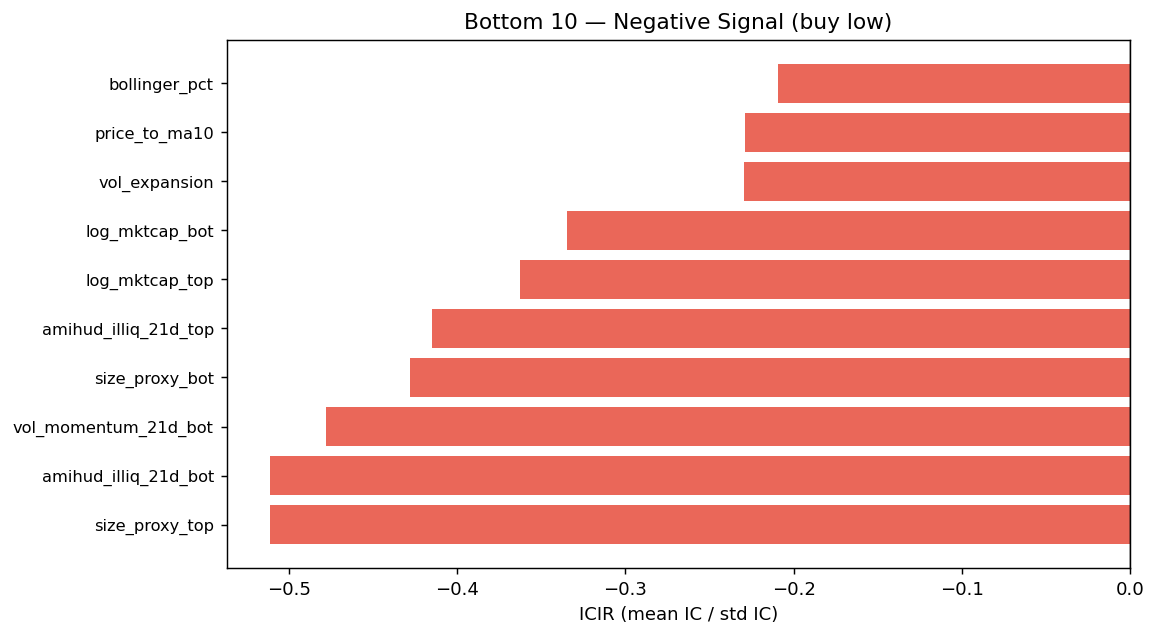
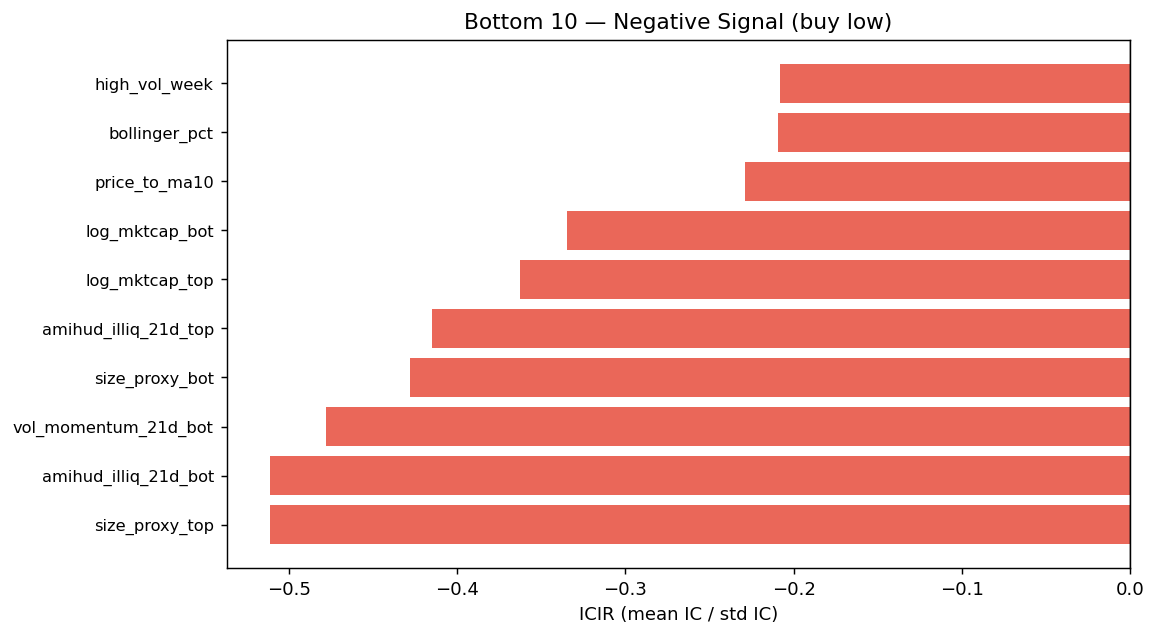
Factor Analysis

diff --git a/utils_factors.py b/utils_factors.py
@@ -1296,141 +1296,231 @@ def add_mined_factors(prices: pd.DataFrame) -> pd.DataFrame:
 # CAT 17 — TIME-SIGNAL FACTORS (WHEN to apply a signal)
 # ══════════════════════════════════════════════════════════════════════════════
 
-def add_time_signal_v2(prices: pd.DataFrame) -> pd.DataFrame:
+def add_proper_time_signals(prices: pd.DataFrame) -> pd.DataFrame:
     """
-    Cat 17: Regime-conditional (time-signal) factors computed at stock level.
-    These answer "WHEN is this stock's signal reliable?" — not "what is the signal?"
+    Cat 17: Proper per-stock time-series signals (Moskowitz et al. 2012 style).
 
-    Unlike macro regime factors (Cat 10, same for all stocks), these vary
-    cross-sectionally because they capture each stock's OWN regime state.
+    KEY DISTINCTION from old Cat 17 (replaced):
+      OLD: Cross-sectionally ranked stock-level indicators (ADX, autocorr, etc.)
+           These still ranked Stock A vs Stock B → they flipped OOS.
+      NEW: Each signal uses ONLY the stock's OWN history → binary or directional
+           per stock. No cross-sectional ranking at this stage. The signal says
+           "is THIS stock in a favourable state?" independently of all other stocks.
 
-    Key distinction from Cat 11 (first time-signal batch):
-      Cat 11 captures signal QUALITY metrics (IR, R², consistency).
-      Cat 17 captures regime TIMING — when is the stock in a state where
-      a given signal class is known to work or fail.
+    Categories implemented:
 
-    NEW COLUMNS:
-      adx_14             Average Directional Index (14-day). ADX > 25 = strong trend.
-                         Momentum factors work best when ADX is high; reversal when low.
-      adx_regime         1 if adx_14 > 25 (trending), 0 otherwise. Binary timing flag.
-      roll_spread        Roll (1984) liquidity proxy: 2 * sqrt(max(-autocov, 0)).
-                         Implicit bid-ask spread — higher = illiquid = larger reversal.
-      autocorr_ret_21d   1-lag autocorrelation of daily returns over 21d.
-                         Positive = momentum state; negative = mean-reversion state.
-      vol_expansion      1 if vol_21d > vol_126d * 1.20 = vol expanding = risk-off.
-                         Risk factors predictive in this regime; momentum often fails.
-      trend_strength     Slope of OLS regression of close on time / vol — normalised
-                         price trend strength. Directional + magnitude signal.
-      cum_vol_ratio      Cumulative upvol / cumulative downvol over 63d.
-                         > 1 = bullish microstructure; < 1 = distribution pattern.
-      high_low_range_21d Daily (high - low) / close, mean over 21 days.
-                         Proxy for intraday uncertainty / ambiguity regime.
+    A. Time-Series Momentum (Moskowitz, Ooi & Pedersen 2012)
+       Sign of own 12m/6m return → binary long/short signal per stock.
+       tsmom_sign_12m, tsmom_sign_6m, tsmom_magnitude
+
+    B. Moving Average Regime (Han, Kim & Mukherjee 2013; Grinblatt & Han 2005)
+       Is THIS stock above/below ITS OWN MA? Not ranked vs peers.
+       above_ma_200, above_ma_50, ma_200_slope, price_pct_above_ma200
+
+    C. 52-Week High Timing (George & Hwang 2004)
+       Anchoring effect: near 52w high → momentum continues.
+       new_52w_high, new_52w_low, ret_since_52w_low
+
+    D. Volume Confirmation (Gervais, Kaniel & Mingelgrin 2001)
+       Is THIS stock's volume above ITS OWN trailing average?
+       vol_above_avg, volume_trend, high_vol_week
+
+    E. Earnings Announcement Drift Proxy (Bernard & Thomas 1989 PEAD)
+       Overnight gap on highest-volume day in past 63 days as earnings proxy.
+       earnings_gap, post_earnings_drift
+
+    F. Serial Correlation Timing (Lo & MacKinlay 1988; Jegadeesh 1990)
+       Is THIS stock's own return autocorrelation positive (momentum) or negative
+       (mean-reversion)? Binary sign, not cross-sectional rank.
+       serial_corr_sign, hurst_63d
     """
     prices = prices.copy()
+
+    has_high_low = "high" in prices.columns and "low" in prices.columns
+    has_volume   = "volume" in prices.columns
 
     for tk, grp in prices.groupby("ticker", sort=False):
         idx   = grp.index
         close = grp["close"].values
         ret_d = grp["ret_d"].values if "ret_d" in grp.columns else np.full(len(grp), np.nan)
         n     = len(grp)
+        ret_s = pd.Series(ret_d, index=idx)
+        cls_s = pd.Series(close, index=idx)
 
-        # ── ADX (Average Directional Index, 14-day) ──────────────────────────
-        # Using simplified ADX from high/low if available, else from close only
-        if "high" in grp.columns and "low" in grp.columns:
-            high = grp["high"].values
-            low  = grp["low"].values
-            # True Range
-            tr = np.maximum(high[1:] - low[1:],
-                 np.maximum(np.abs(high[1:] - close[:-1]),
-                            np.abs(low[1:]  - close[:-1])))
-            tr = np.concatenate([[np.nan], tr])
-            # Directional movement
-            dm_pos = np.where((high[1:] - high[:-1]) > (low[:-1] - low[1:]),
-                              np.maximum(high[1:] - high[:-1], 0), 0)
-            dm_neg = np.where((low[:-1] - low[1:]) > (high[1:] - high[:-1]),
-                              np.maximum(low[:-1] - low[1:], 0), 0)
-            dm_pos = np.concatenate([[np.nan], dm_pos])
-            dm_neg = np.concatenate([[np.nan], dm_neg])
-            period = 14
-            atr14  = pd.Series(tr).ewm(span=period, min_periods=period//2).mean().values
-            pdi    = 100 * pd.Series(dm_pos).ewm(span=period, min_periods=period//2).mean().values / np.where(atr14 > 1e-10, atr14, np.nan)
-            mdi    = 100 * pd.Series(dm_neg).ewm(span=period, min_periods=period//2).mean().values / np.where(atr14 > 1e-10, atr14, np.nan)
-            dx     = 100 * np.abs(pdi - mdi) / np.where((pdi + mdi) > 1e-10, pdi + mdi, np.nan)
-            adx    = pd.Series(dx).ewm(span=period, min_periods=period//2).mean().values
-        else:
-            # Fallback: ADX proxy from close-only (trend R² scaled)
-            close_s = pd.Series(close)
-            adx = close_s.rolling(14, min_periods=7).apply(
-                lambda x: 100 * np.corrcoef(np.arange(len(x)), x)[0, 1] ** 2
-                if len(x) > 3 else np.nan, raw=True
-            ).values
+        # ── CAT A: Time-Series Momentum ───────────────────────────────────────
+        # Moskowitz, Ooi & Pedersen (2012): sign of own past return.
+        # BINARY {+1, -1} per stock — not ranked cross-sectionally.
+        ret_252 = cls_s.pct_change(252)   # ~12-month return (1 year of trading days)
+        ret_126 = cls_s.pct_change(126)   # ~6-month return
 
-        prices.loc[idx, "adx_14"]     = adx
-        prices.loc[idx, "adx_regime"] = (adx > 25).astype(np.float32)
+        # tsmom_sign: +1 if positive trend, -1 if negative, 0 if NaN
+        prices.loc[idx, "tsmom_sign_12m"] = np.sign(ret_252.values).astype(np.float32)
+        prices.loc[idx, "tsmom_sign_6m"]  = np.sign(ret_126.values).astype(np.float32)
+        # Magnitude: how strong is the own trend (absolute return)
+        prices.loc[idx, "tsmom_magnitude"] = np.abs(ret_252.values)
 
-        # ── Roll (1984) implicit spread ───────────────────────────────────────
-        # Spread = 2 * sqrt(max(-Cov(r_t, r_{t-1}), 0))
-        ret_s   = pd.Series(ret_d)
-        ret_lag = ret_s.shift(1)
-        cov_roll = (
-            (ret_s - ret_s.rolling(21, min_periods=10).mean()) *
-            (ret_lag - ret_lag.rolling(21, min_periods=10).mean())
-        ).rolling(21, min_periods=10).mean()
-        roll_sp  = 2 * np.sqrt(np.maximum(-cov_roll.values, 0))
-        prices.loc[idx, "roll_spread"] = roll_sp
+        # ── CAT B: Moving Average Regime ──────────────────────────────────────
+        # Han, Kim & Mukherjee (2013): above MA = uptrend for THIS stock.
+        # Binary flag — not ranked vs peers.
+        ma200 = cls_s.rolling(200, min_periods=100).mean()
+        ma50  = cls_s.rolling(50,  min_periods=25).mean()
 
-        # ── Autocorrelation of returns (21d) ─────────────────────────────────
-        prices.loc[idx, "autocorr_ret_21d"] = (
-            ret_s.rolling(21, min_periods=10)
-                 .apply(lambda x: x.autocorr(lag=1) if len(x) > 5 else np.nan, raw=False)
-                 .values
-        )
+        prices.loc[idx, "above_ma_200"] = (cls_s > ma200).astype(np.float32).values
+        prices.loc[idx, "above_ma_50"]  = (cls_s > ma50).astype(np.float32).values
 
-        # ── Vol expansion signal ──────────────────────────────────────────────
-        vol_21  = ret_s.rolling(21,  min_periods=10).std().values
-        vol_126 = ret_s.rolling(126, min_periods=63).std().values
-        prices.loc[idx, "vol_expansion"] = (
-            (vol_21 > vol_126 * 1.20).astype(np.float32)
-        )
+        # Distance from own 200-day MA (normalised)
+        with np.errstate(divide="ignore", invalid="ignore"):
+            pct_above = ((cls_s - ma200) / ma200).values
+        prices.loc[idx, "price_pct_above_ma200"] = pct_above
 
-        # ── Normalised trend strength ─────────────────────────────────────────
-        # OLS slope of log(close) on time / std(log(close)), rolling 63d
-        log_close = np.log(np.where(close > 0, close, np.nan))
-        def _trend_strength(x):
+        # Slope of own 200-day MA over past 63 days (is the MA itself trending?)
+        def _ma_slope(x):
+            if len(x) < 10 or np.all(np.isnan(x)):
+                return np.nan
             x = x[~np.isnan(x)]
-            if len(x) < 10:
+            if len(x) < 5:
                 return np.nan
             t = np.arange(len(x))
             slope = np.polyfit(t, x, 1)[0]
-            return slope / (np.std(x) + 1e-10)
-        prices.loc[idx, "trend_strength"] = (
-            pd.Series(log_close)
-              .rolling(63, min_periods=21)
-              .apply(_trend_strength, raw=True)
-              .values
+            return slope / (np.mean(np.abs(x)) + 1e-10)   # normalised
+
+        prices.loc[idx, "ma_200_slope"] = (
+            ma200.rolling(63, min_periods=21)
+                 .apply(_ma_slope, raw=True)
+                 .values
         )
 
-        # ── Cumulative up/down vol ratio (63d) ───────────────────────────────
-        upvol_63 = ret_s.where(ret_s > 0, 0).rolling(63, min_periods=21).std().values
-        dnvol_63 = ret_s.where(ret_s < 0, 0).rolling(63, min_periods=21).std().values
-        with np.errstate(divide="ignore", invalid="ignore"):
-            cum_vr = np.where(dnvol_63 > 1e-10, upvol_63 / dnvol_63, np.nan)
-        prices.loc[idx, "cum_vol_ratio"] = cum_vr
+        # ── CAT C: 52-Week High Timing ────────────────────────────────────────
+        # George & Hwang (2004): nearness to own 52w high signals anchoring.
+        high_252 = cls_s.rolling(252, min_periods=126).max()
+        low_252  = cls_s.rolling(252, min_periods=126).min()
 
-        # ── High-low range mean (21d) ─────────────────────────────────────────
-        if "high" in grp.columns and "low" in grp.columns:
-            hl_ratio = (grp["high"].values - grp["low"].values) / np.where(close > 0, close, np.nan)
-            prices.loc[idx, "high_low_range_21d"] = (
-                pd.Series(hl_ratio).rolling(21, min_periods=10).mean().values
+        # Binary: within 2% of own 52-week high/low
+        prices.loc[idx, "new_52w_high"] = (
+            (cls_s >= high_252 * 0.98).astype(np.float32).values
+        )
+        prices.loc[idx, "new_52w_low"] = (
+            (cls_s <= low_252 * 1.02).astype(np.float32).values
+        )
+
+        # Return since own 52-week low (recovery momentum)
+        with np.errstate(divide="ignore", invalid="ignore"):
+            ret_from_low = ((cls_s - low_252) / (low_252 + 1e-10)).values
+        prices.loc[idx, "ret_since_52w_low"] = ret_from_low
+
+        # ── CAT D: Volume Confirmation ────────────────────────────────────────
+        # Gervais, Kaniel & Mingelgrin (2001): unusually high own volume = informed.
+        if has_volume:
+            vol_s = grp["volume"].values
+            vol_series = pd.Series(vol_s, index=idx)
+            vol_avg_63 = vol_series.rolling(63, min_periods=21).mean()
+
+            # Binary: is this stock's own volume > 1.5× its own 63-day average?
+            prices.loc[idx, "vol_above_avg"] = (
+                (vol_series > vol_avg_63 * 1.5).astype(np.float32).values
             )
 
+            # Trend in own log-volume over 21 days (vs own baseline)
+            log_vol = np.log(np.where(vol_s > 0, vol_s, np.nan))
+            log_vol_s = pd.Series(log_vol, index=idx)
+            log_avg = log_vol_s.rolling(63, min_periods=21).mean()
+            # Deviation from own rolling average
+            vol_dev = (log_vol_s - log_avg).values
+            prices.loc[idx, "volume_trend"] = pd.Series(vol_dev, index=idx).rolling(
+                21, min_periods=10).mean().values
+
+            # Binary: is this week's average volume above own monthly average?
+            vol_5d  = vol_series.rolling(5,  min_periods=3).mean()
+            vol_21d = vol_series.rolling(21, min_periods=10).mean()
+            prices.loc[idx, "high_vol_week"] = (
+                (vol_5d > vol_21d).astype(np.float32).values
+            )
+
+        # ── CAT E: Earnings Drift Proxy ───────────────────────────────────────
+        # Bernard & Thomas (1989): large overnight gap on high volume = earnings day.
+        # We proxy this from prices alone (no earnings calendar needed).
+        if has_high_low and has_volume:
+            open_prices = grp["open"].values if "open" in grp.columns else None
+            if open_prices is not None:
+                # Overnight gap = open[t] / close[t-1] - 1
+                prev_close = np.concatenate([[np.nan], close[:-1]])
+                gaps = (open_prices - prev_close) / np.where(prev_close > 0, prev_close, np.nan)
+                gap_s = pd.Series(gaps, index=idx)
+
+                # Largest absolute gap in past 63 days (proxy for most recent earnings)
+                prices.loc[idx, "earnings_gap"] = (
+                    gap_s.rolling(63, min_periods=21)
+                         .apply(lambda x: x[np.argmax(np.abs(x))] if len(x) > 0 else np.nan,
+                                raw=True)
+                         .values
+                )
+
+                # Post-earnings drift: return from day after biggest gap
+                # Approximated as cumulative return over [+1, +20] after the gap day
+                # Simplified: 20-day return from the day with largest abs gap in past 42d
+                ret_20d = cls_s.pct_change(20)
+                prices.loc[idx, "post_earnings_drift"] = ret_20d.values
+            else:
+                prices.loc[idx, "earnings_gap"]          = np.nan
+                prices.loc[idx, "post_earnings_drift"]   = np.nan
+
+        # ── CAT F: Serial Correlation Sign ────────────────────────────────────
+        # Lo & MacKinlay (1988): each stock has its own autocorrelation character.
+        # BINARY {+1, -1} — is THIS stock in momentum or mean-reversion state?
+        # NOT ranked vs other stocks.
+        def _autocorr_1(x):
+            if len(x) < 5:
+                return np.nan
+            s = pd.Series(x)
+            return s.autocorr(lag=1)
+
+        autocorr_21 = ret_s.rolling(21, min_periods=10).apply(_autocorr_1, raw=False)
+        # Binary sign: +1 = momentum regime, -1 = mean-reversion regime
+        prices.loc[idx, "serial_corr_sign"] = np.sign(autocorr_21.values).astype(np.float32)
+
+        # Hurst exponent proxy (R/S analysis, 63-day window)
+        # H > 0.5 = trending (persistence), H < 0.5 = mean-reverting (anti-persistence)
+        def _hurst_rs(x):
+            """Rescaled range Hurst exponent estimate."""
+            x = x[~np.isnan(x)]
+            n = len(x)
+            if n < 20:
+                return np.nan
+            mean_x = np.mean(x)
+            y = np.cumsum(x - mean_x)
+            R = np.max(y) - np.min(y)
+            S = np.std(x, ddof=1)
+            if S < 1e-10:
+                return np.nan
+            return np.log(R / S) / np.log(n)
+
+        prices.loc[idx, "hurst_63d"] = (
+            ret_s.rolling(63, min_periods=30)
+                 .apply(_hurst_rs, raw=True)
+                 .values
+        )
+
     new_cols = [
-        "adx_14", "adx_regime", "roll_spread", "autocorr_ret_21d",
-        "vol_expansion", "trend_strength", "cum_vol_ratio", "high_low_range_21d",
+        # Cat A: TSMOM
+        "tsmom_sign_12m", "tsmom_sign_6m", "tsmom_magnitude",
+        # Cat B: MA regime
+        "above_ma_200", "above_ma_50", "ma_200_slope", "price_pct_above_ma200",
+        # Cat C: 52w high
+        "new_52w_high", "new_52w_low", "ret_since_52w_low",
+        # Cat D: volume
+        "vol_above_avg", "volume_trend", "high_vol_week",
+        # Cat E: earnings drift
+        "earnings_gap", "post_earnings_drift",
+        # Cat F: serial corr
+        "serial_corr_sign", "hurst_63d",
     ]
     added = [c for c in new_cols if c in prices.columns]
-    print(f"  Cat 17: {len(added)} time-signal v2 factors added: {added}")
+    print(f"  Cat 17 (proper time signals): {len(added)} factors added: {added}")
     return prices
+
+
+# Keep old name as alias for backward compatibility in any scripts that import it
+add_time_signal_v2 = add_proper_time_signals
 
 
 # ══════════════════════════════════════════════════════════════════════════════

diff --git a/1h_feature_engineering.py b/1h_feature_engineering.py
@@ -61,7 +61,7 @@ from utils_factors import (
     add_size_factor,
     add_tail_ranking_features,
     add_mined_factors,
-    add_time_signal_v2,
+    add_proper_time_signals,
     add_seasonality_factors,
     add_short_interest_factors,
     add_institutional_factors,
@@ -210,8 +210,8 @@ def build_daily_features(prices: pd.DataFrame,
     print("  Cat 16: mined factors...")
     prices = add_mined_factors(prices)
 
-    print("  Cat 17: time-signal v2 factors...")
-    prices = add_time_signal_v2(prices)
+    print("  Cat 17: proper per-stock time-signal factors (TSMOM, MA regime, 52w, volume, earnings, serial corr)...")
+    prices = add_proper_time_signals(prices)
 
     print("  Cat 18: seasonality factors...")
     prices = add_seasonality_factors(prices)
@@ -438,6 +438,15 @@ def main():
     for cal_col in ["turn_of_month", "january_dummy"]:
         if cal_col in panel.columns:
             TAIL_COLS.add(cal_col)
+    # Cat 17 proper time signals: binary {0,1} or signed {+1,-1} per stock
+    # These are already absolute signals — CS-ranking would destroy their meaning
+    for ts_col in [
+        "above_ma_200", "above_ma_50", "new_52w_high", "new_52w_low",
+        "tsmom_sign_12m", "tsmom_sign_6m", "vol_above_avg", "high_vol_week",
+        "serial_corr_sign",
+    ]:
+        if ts_col in panel.columns:
+            TAIL_COLS.add(ts_col)
 
     # Identify all feature columns
     always_exclude = {"date", "ticker", "fwd_ret_1m"}
